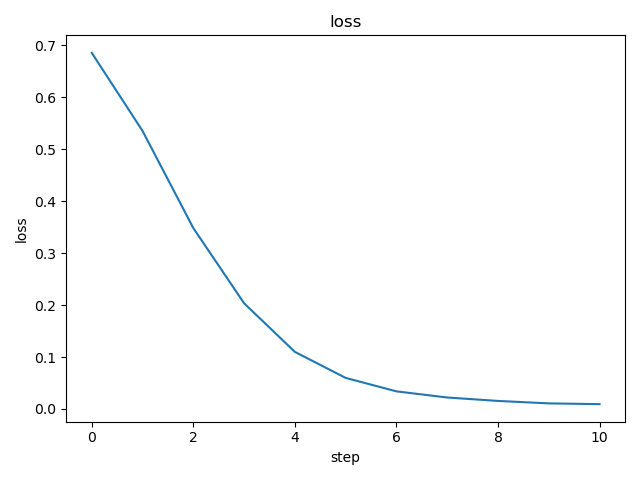
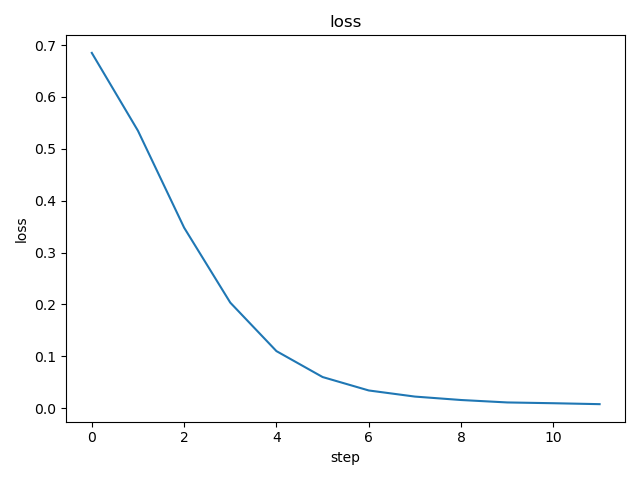
dvc: commit experiment 3563c267a109f91b06d54ab0f474c98fe49776cd1a0dca537bdf9522a7c7a81d

diff --git a/data/ogt_protein_classifier/dvclive/report.md b/data/ogt_protein_classifier/dvclive/report.md
@@ -4,7 +4,7 @@ metrics.json
 
 |   loss |   learning_rate |   epoch |   eval_loss |   eval_f1 |   eval_accuracy |   eval_matthew |   eval_runtime |   eval_samples_per_second |   eval_steps_per_second |   step |
 |--------|-----------------|---------|-------------|-----------|-----------------|----------------|----------------|---------------------------|-------------------------|--------|
-| 0.0093 |         2.8e-05 |      22 |    0.790347 |  0.821053 |          0.7875 |       0.620264 |         3.4058 |                     23.49 |                   0.587 |     10 |
+| 0.0075 |         2.6e-05 |      24 |    0.789943 |  0.821053 |          0.7875 |       0.620264 |          3.235 |                     24.73 |                   0.618 |     11 |
 
 ![static/eval_steps_per_second](static/eval_steps_per_second.png)
 
